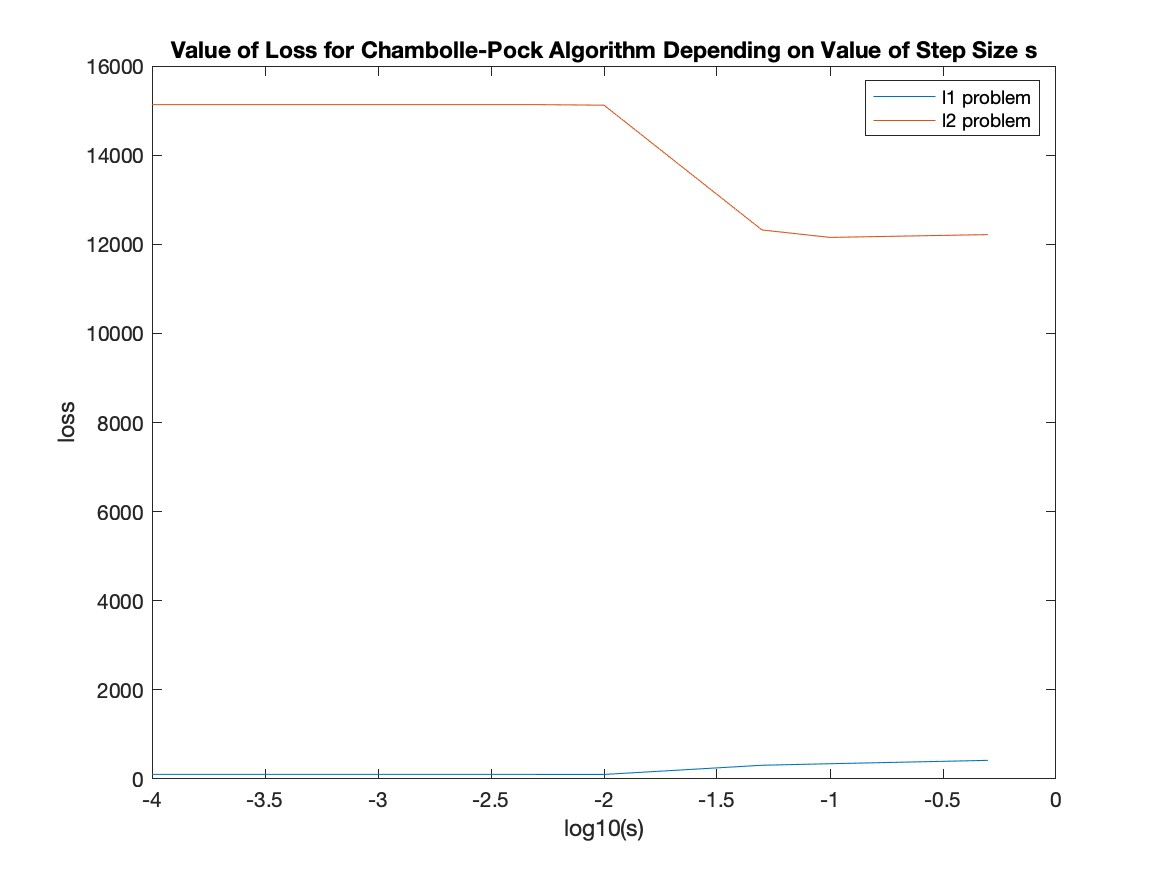
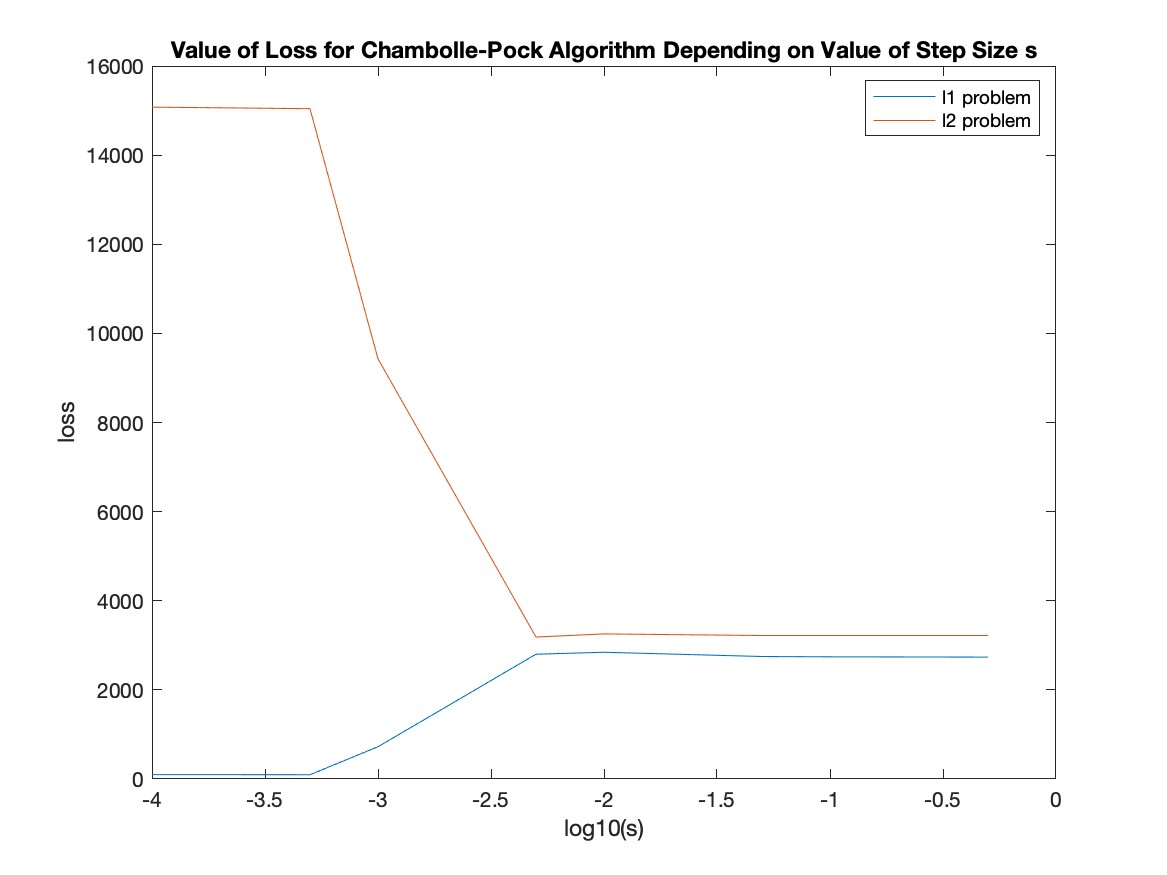
re-ran tests

Changed region(s): [[0.2468, 0.864, 0.5244, 0.8949], [0.1234, 0.0926, 0.2468, 0.1234], [0.2468, 0.1234, 0.2776, 0.1543]]

diff --git a/optimal_parameters_testing_l1.m b/optimal_parameters_testing_l1.m
@@ -25,7 +25,7 @@ i = struct();
 [deblurred_x2_opt, summary2, loss2] = optsolver('l1', 'douglasrachfordprimaldual', z1_0, image_x, kernel, b, i);
 [deblurred_x3_opt, summary3, loss3] = optsolver('l1', 'admm', z1_0, image_x, kernel, b, i);
 
-i.gammal1 = 0.005;
+i.gammal1 = 0.0001;
 [deblurred_x4_opt, summary4, loss4] = optsolver('l1', 'chambollepock', z1_0, image_x, kernel, b, i);
 
 h_opt1 = figure(1);
@@ -87,8 +87,8 @@ i = struct();
 [deblurred_x1_opt_hat, summary1_hat, loss1_hat] = optsolver('l1', 'douglasrachfordprimal', z1_0, image_x, kernel, b, i);
 [deblurred_x2_opt_hat, summary2_hat, loss2_hat] = optsolver('l1', 'douglasrachfordprimaldual', z1_0, image_x, kernel, b, i);
 [deblurred_x3_opt_hat, summary3_hat, loss3_hat] = optsolver('l1', 'admm', z1_0, image_x, kernel, b, i);
-
-i.gammal1=0.005;
+u
+i.gammal1=0.001;
 [deblurred_x4_opt_hat, summary4_hat, loss4_hat] = optsolver('l1', 'chambollepock', z1_0, image_x, kernel, b, i);
 
 h_opt_hat1 = figure(1);
@@ -147,11 +147,10 @@ saveas(imshow(b,[]), 'b_motion','jpeg');
 [m, n] = size(b);
 z1_0 = rand(m, n);
 i = struct();
-i.gammal1 = 0.05;
 
 [deblurred_x1_opt, summary1, loss1_motion] = optsolver('l1', 'douglasrachfordprimal', z1_0, image_x, kernel, b, i);
 
-i.gammal1 = 0.01;
+i.gammal1 = 0.0001;
 [deblurred_x2_opt, summary2, loss2_motion] = optsolver('l1', 'douglasrachfordprimaldual', z1_0, image_x, kernel, b, i);
 [deblurred_x3_opt, summary3, loss3_motion] = optsolver('l1', 'admm', z1_0, image_x, kernel, b, i);
 [deblurred_x4_opt, summary4, loss4_motion] = optsolver('l1', 'chambollepock', z1_0, image_x, kernel, b, i);

diff --git a/optsolver.m b/optsolver.m
@@ -30,27 +30,27 @@ function [x_sol, summary_x, loss] = optsolver(problem, algorithm, x_initial, x_o
     defaults.maxiter = 500;
 
     % denoising for l1 and l2 loss
-    defaults.gammal1 = 0.001;
-    defaults.gammal2 = 0.01;
+    defaults.gammal1 = 0.049;
+    defaults.gammal2 = 0.049;
 
     % relaxation parameter (rho in (0, 2)) and step size t > 0 for Primal
     % Douglas-Rachford Splitting
-    defaults.rhoprimaldr = 1.53;
-    defaults.tprimaldr = 0.01;
+    defaults.rhoprimaldr = 2;
+    defaults.tprimaldr = 0.1;
 
     % relaxation parameter (rho in (0, 2)) and step size t > 0 for Primal Dual
     % Douglas-Rachford Splitting
-    defaults.rhoprimaldualdr = 0.7;
-    defaults.tprimaldualdr = 0.05;
+    defaults.rhoprimaldualdr = 1.5;
+    defaults.tprimaldualdr = 0.1;
 
     % relaxation parameter (rho in (0, 2)) and step size t > 0 for Alternating
     % Direction Method of Multipliers
-    defaults.rhoadmm = 0.8;
-    defaults.tadmm = 0.003;
+    defaults.rhoadmm = 1.5;
+    defaults.tadmm = 0.1;
 
     % step size parameters for the Chambolle-Pock Algorithm
-    defaults.tcp = 0.003;
-    defaults.scp = 0.5;
+    defaults.tcp = 0.1;
+    defaults.scp = 0.1;
 
     % other parameters (basically no tolerance as
     % default, the algorithm will run for the number of specified iterations)

diff --git a/optimal_parameters_testing_l2.m b/optimal_parameters_testing_l2.m
@@ -25,7 +25,7 @@ i = struct();
 [deblurred_x2_opt, summary2, loss2] = optsolver('l2', 'douglasrachfordprimaldual', z1_0, image_x, kernel, b, i);
 [deblurred_x3_opt, summary3, loss3] = optsolver('l2', 'admm', z1_0, image_x, kernel, b, i);
 
-i.gammal2 = 0.1;
+i.gammal2 = 0.005;
 [deblurred_x4_opt, summary4, loss4] = optsolver('l2', 'chambollepock', z1_0, image_x, kernel, b, i);
 
 h_opt1 = figure(1);
@@ -152,6 +152,8 @@ i.gammal2 = 0.05;
 i.gammal2 = 0.01;
 [deblurred_x2_opt, summary2, loss2] = optsolver('l2', 'douglasrachfordprimaldual', z1_0, image_x, kernel, b, i);
 [deblurred_x3_opt, summary3, loss3] = optsolver('l2', 'admm', z1_0, image_x, kernel, b, i);
+
+i.gammal2 = 0.005;
 [deblurred_x4_opt, summary4, loss4] = optsolver('l2', 'chambollepock', z1_0, image_x, kernel, b, i);
 
 h_motion1 = figure(1);
